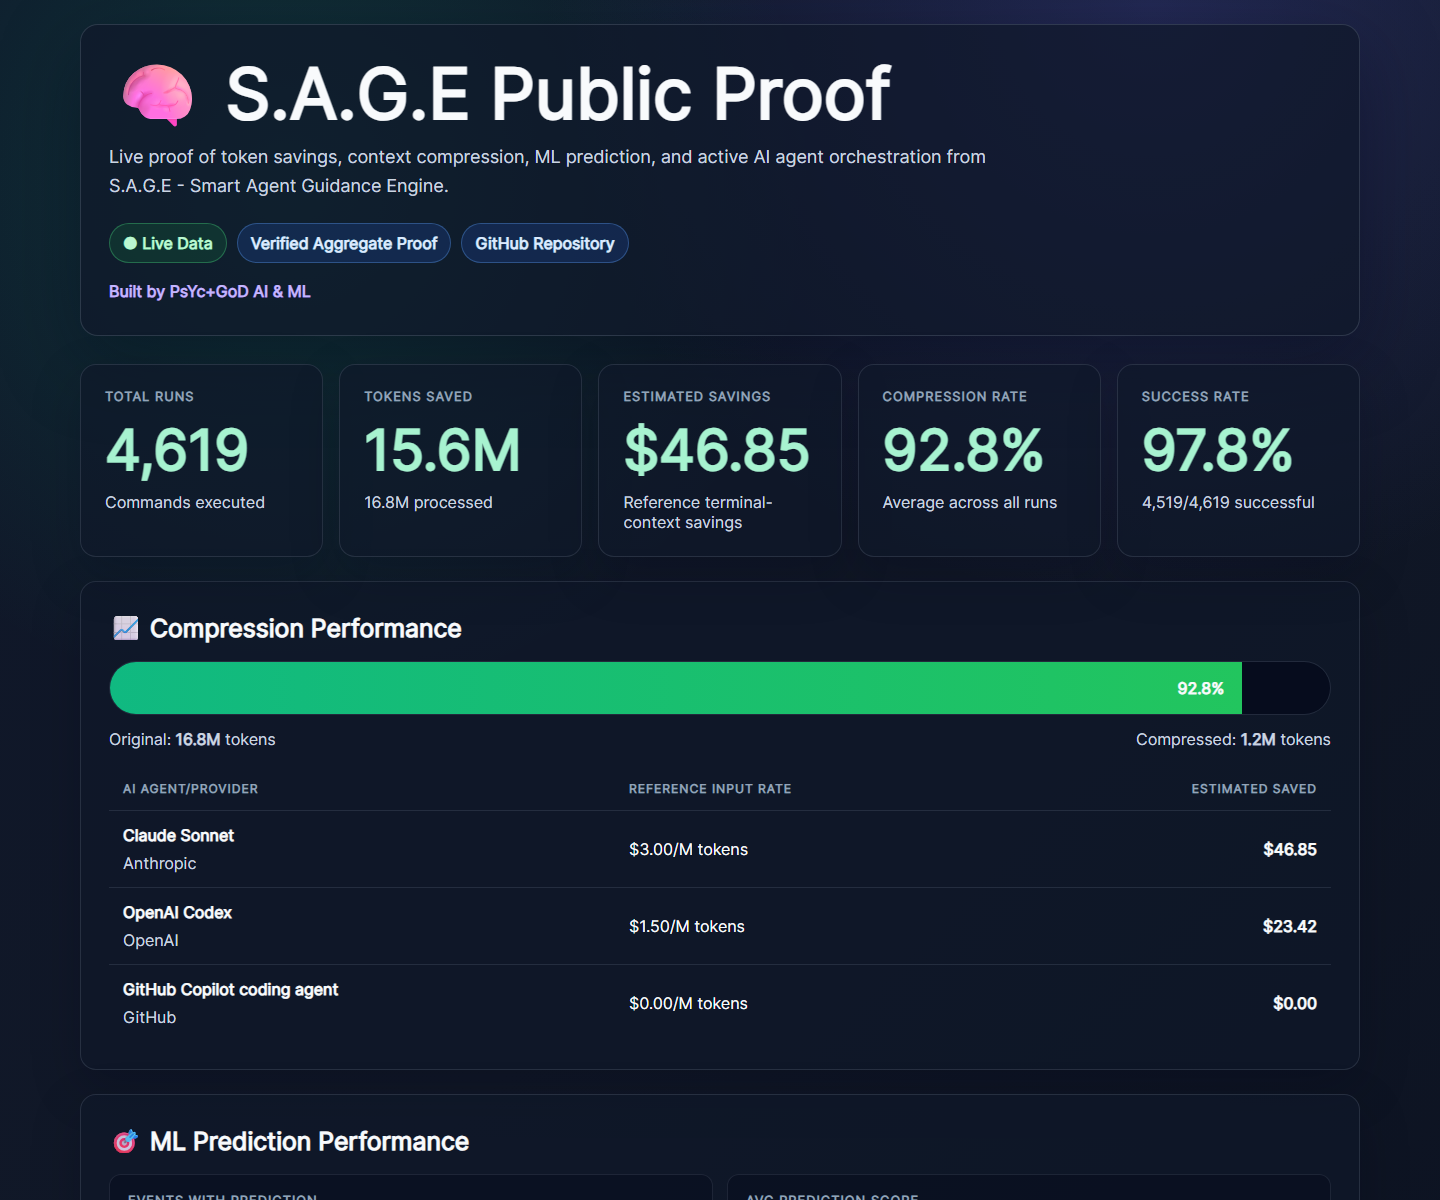
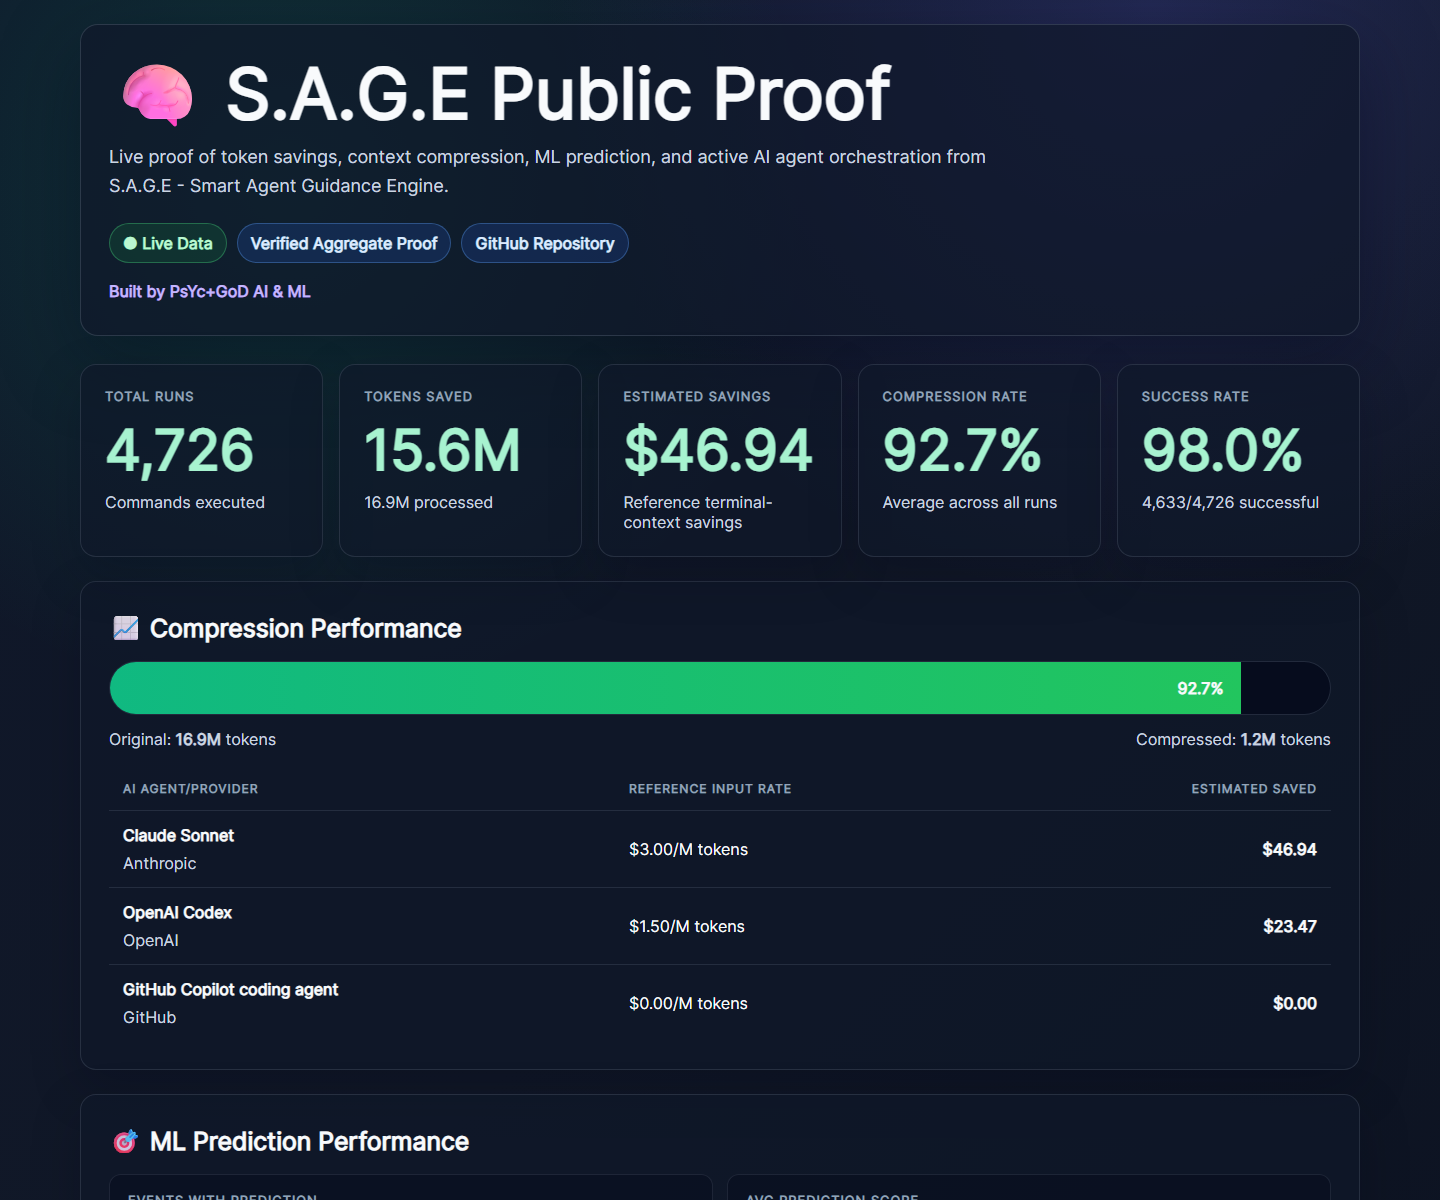
Prepare trusted PyPI publish

diff --git a/cloudflare/sage-api/src/worker.js b/cloudflare/sage-api/src/worker.js
@@ -3,7 +3,7 @@ const ALLOWED_ORIGINS = [
   "http://localhost:8765",           // SAGE GUI local
   "http://127.0.0.1:8765",           // Alternative localhost
   "https://sage.api.marketingstudios.in",  // Public dashboard
-  "https://sage-api.valan-dj.workers.dev", // Current public Worker
+  "https://psyc-god-sage-api.valan-dj.workers.dev", // Current public Worker
 ];
 
 const SAVINGS_PROFILES = [
@@ -133,7 +133,7 @@ const PUBLIC_PROOF_DASHBOARD_HTML = `<!DOCTYPE html>
       <div class="badges">
         <span class="badge green">&#9679; Live Data</span>
         <span class="badge">Verified Aggregate Proof</span>
-        <a class="badge" href="https://github.com/PsYcGoD/SAGE-Smart-Agent-Guidance-Engine-announcement">GitHub Repository</a>
+        <a class="badge" href="https://github.com/PsYcGoD/sage">GitHub Repository</a>
       </div>
       <div class="owner">Built by PsYc+GoD AI &amp; ML</div>
     </header>
@@ -193,7 +193,7 @@ const PUBLIC_PROOF_DASHBOARD_HTML = `<!DOCTYPE html>
     <footer>
       <strong>S.A.G.E V2.0</strong> - Smart Agent Guidance Engine<br>
       Privacy-first token compression, ML prediction, and active AI agent orchestration by PsYc+GoD AI &amp; ML<br>
-      <a href="https://github.com/PsYcGoD/SAGE-Smart-Agent-Guidance-Engine-announcement">GitHub Repository</a>
+      <a href="https://github.com/PsYcGoD/sage">GitHub Repository</a>
     </footer>
   </div>
 

diff --git a/src/sage/cli.py b/src/sage/cli.py
@@ -357,7 +357,7 @@ def _add_login_args(parser: argparse.ArgumentParser) -> None:
     parser.add_argument("--public-profile", action="store_true", help="Show this profile on public proof leaderboards.")
     parser.add_argument("--privacy-max", type=int, default=1, choices=[0, 1, 2, 3, 4], help="Maximum telemetry level allowed for this key.")
     parser.add_argument("--scope", default="personal", help="API key scope label.")
-    parser.add_argument("--endpoint", default="", help="SAGE API base URL. Defaults to sage-api.valan-dj.workers.dev.")
+    parser.add_argument("--endpoint", default="", help="SAGE API base URL. Defaults to psyc-god-sage-api.valan-dj.workers.dev.")
     parser.add_argument("--expiry-days", type=int, choices=[30, 60, 90], help="API key expiration in days.")
 
 def main(argv: list[str] | None = None) -> int:

diff --git a/src/sage/telemetry.py b/src/sage/telemetry.py
@@ -27,7 +27,7 @@ from .security import redact_text
 from .store import connect, data_dir
 
 SCHEMA_VERSION = "1.0"
-DEFAULT_API_BASE_URL = "https://sage-api.valan-dj.workers.dev"
+DEFAULT_API_BASE_URL = "https://psyc-god-sage-api.valan-dj.workers.dev"
 FALLBACK_API_BASE_URL = "https://sage.api.marketingstudios.in"
 KEYRING_SERVICE = "psycgod-sage"
 

diff --git a/README.md b/README.md
@@ -11,7 +11,7 @@ The public package is CLI-first. The desktop GUI is not included in this public 
 
 ## Live Public Proof Dashboard
 
-Live dashboard: https://sage-api.valan-dj.workers.dev/dashboard
+Live dashboard: https://psyc-god-sage-api.valan-dj.workers.dev/dashboard
 
 ![SAGE Live Public Proof Dashboard](docs/assets/sage-live-dashboard.png)
 
@@ -27,13 +27,13 @@ Latest verified snapshot:
 
 | Metric | Value |
 |--------|------:|
-| Commands processed | 4,617 |
-| Tokens processed | 16,827,865 |
-| Tokens compressed | 1,211,678 |
-| Tokens saved | 15,616,187 |
-| Estimated savings | $46.85 |
-| Compression rate | 92.80% |
-| Success rate | 97.77% |
+| Commands processed | 4,718 |
+| Tokens processed | 16,867,284 |
+| Tokens compressed | 1,224,521 |
+| Tokens saved | 15,642,763 |
+| Estimated savings | $46.93 |
+| Compression rate | 92.74% |
+| Success rate | 98.03% |
 
 These stats reflect the public CLI proof snapshot after the hosted dashboard went live.
 Raw commands, outputs, file paths, and logs stay local by default. Public proof uses aggregate counters only.

diff --git a/cloudflare/sage-api/README.md b/cloudflare/sage-api/README.md
@@ -7,7 +7,7 @@ Public SAGE API Worker for opt-in telemetry, API key bootstrap, and aggregate pr
 | Resource | Name |
 |---|---|
 | Worker | `sage-api` |
-| Current public Worker | `https://sage-api.valan-dj.workers.dev` |
+| Current public Worker | `https://psyc-god-sage-api.valan-dj.workers.dev` |
 | Previous custom domain | `https://sage.api.marketingstudios.in` |
 | D1 database | `sage_telemetry` |
 | D1 database ID | `30dce3a3-6f7f-423c-9f29-4ff812685752` |
@@ -101,7 +101,7 @@ sage telemetry send --for-real
 Public proof:
 
 ```text
-https://sage-api.valan-dj.workers.dev/v1/proof
+https://psyc-god-sage-api.valan-dj.workers.dev/v1/proof
 ```
 
 The fallback endpoint remains:

diff --git a/cloudflare/sage-api/DEPLOYMENT.md b/cloudflare/sage-api/DEPLOYMENT.md
@@ -57,7 +57,7 @@ sage connect --display-name "Test User"
 # Should succeed with: ✅ SAGE API connected
 
 # Try connecting WITHOUT master key (simulate hacker):
-curl -X POST https://sage-api.valan-dj.workers.dev/v1/keys \
+curl -X POST https://psyc-god-sage-api.valan-dj.workers.dev/v1/keys \
   -H "Content-Type: application/json" \
   -d '{"display_name": "Hacker"}'
 